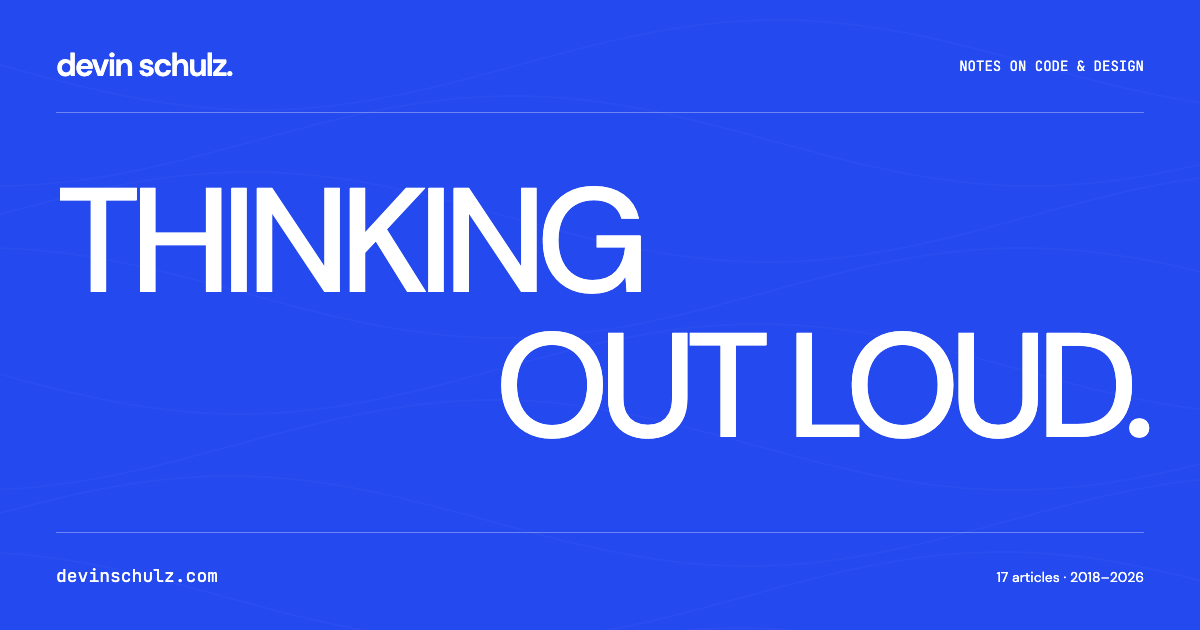
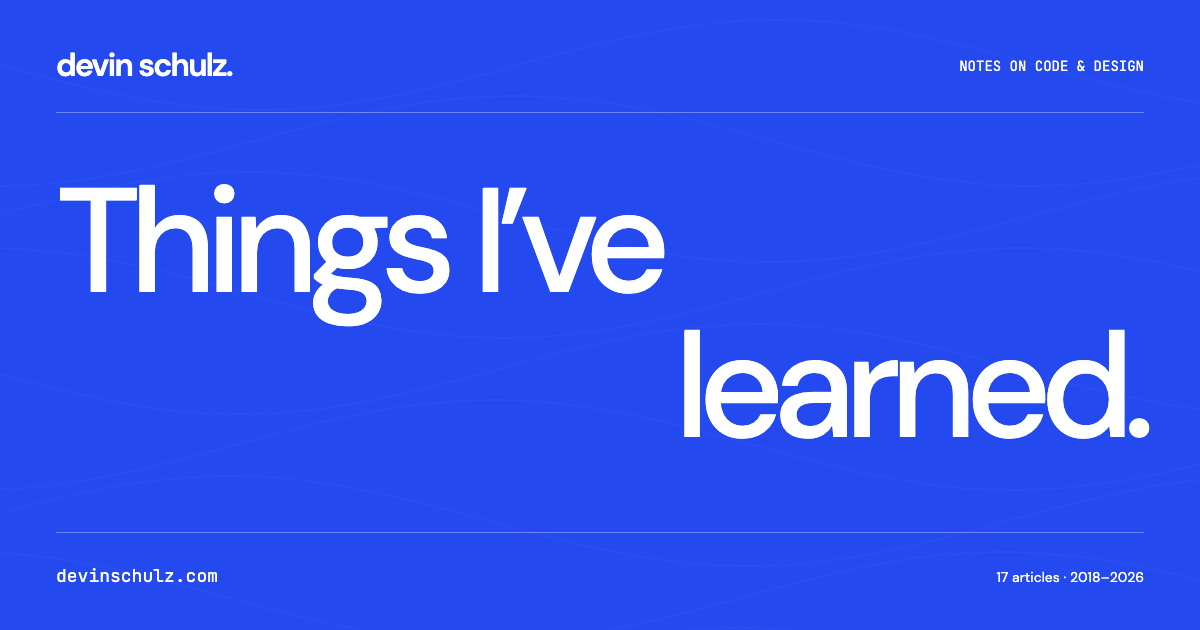
Rename writing section to Things I've learned

Changed region(s): [[0.4008, 0.5127, 0.9558, 0.6937], [0.1233, 0.2714, 0.555, 0.5429]]

diff --git a/layouts/index.html b/layouts/index.html
@@ -19,5 +19,5 @@
   <p class="intro-statement col-start-2 my-10 text-[clamp(34px,7.8vw,60px)] leading-[1.06] font-normal tracking-[-0.065em] desktop:my-0 desktop:text-[clamp(40px,4.4vw,72px)]">Designing and building<br>for the web <img class="inline-work mx-[0.1em] inline-block h-[0.83em] w-[1.7em] rounded-[0.12em] object-cover align-[-0.04em]" src="{{ $inline.RelPermalink }}" width="280" height="150" alt="" loading="lazy"> <span class="text-muted">since 2012.</span></p>
   <div class="intro-details col-start-2"><div class="max-w-145 text-base leading-[1.55] tracking-[-0.02em] desktop:text-lg"><p>I came to frontend engineering through design. I still enjoy figuring out how an interface should behave as much as writing the code that makes it work.</p><p class="mt-5 text-muted">At Cape, that meant designing and building an AI workspace. At InVision, it meant working on the tools designers and developers use together. I’ve also built my own apps for iPhone, iPad, and Mac, where every decision, from the first form to the end of support, was mine to make.</p><p class="mt-5 text-muted">The work I tend to enjoy most is in the details: keeping a conversation readable as it grows, making a failed request recoverable, or getting a small interaction to behave the way you expect.</p><a class="index-text-link mt-6 inline-flex min-h-11 items-center justify-between gap-10 border-b border-line-strong text-[13px] hover:border-current" href="{{ relref . "/blog/the-hardest-part-of-frontend-development-isnt-writing-code" }}">How I approach frontend work <span class="text-[22px]" aria-hidden="true">↗&#xFE0E;</span></a></div></div>
 </section>
-<section id="archive" class="notes-section mx-auto w-[calc(100%-40px)] max-w-400 border-t border-line-strong pt-6 pb-20 desktop:w-[calc(100%-64px)] desktop:pt-9 desktop:pb-35 min-[1100px]:w-[calc(100%-96px)]" aria-labelledby="writing-title"><div class="section-kicker flex items-baseline gap-4 self-start text-[11px] desktop:gap-7 desktop:text-xs"><span class="font-mono text-[10px]">(03)</span><h2 id="writing-title">Notes on code &amp; design</h2><span class="ml-auto">{{ partial "writing-years.html" $posts }}</span></div><div class="notes-heading my-10 desktop:my-15 desktop:flex desktop:items-end desktop:justify-between"><p class="text-[20vw] leading-[0.95] tracking-[-0.07em] desktop:text-[clamp(64px,9.4vw,150px)]">Thinking<br>out loud.</p><a class="index-text-link mt-7 inline-flex min-h-11 items-center justify-between gap-10 border-b border-line-strong text-[13px] hover:border-current desktop:mt-6" href="{{ "blog/" | relURL }}">All {{ len $posts }} articles <span class="text-[22px]" aria-hidden="true">↗&#xFE0E;</span></a></div><div class="notes-list" data-post-list>{{ range first 4 $posts.ByDate.Reverse }}<a class="note-entry group grid grid-cols-[34px_1fr_20px] items-baseline gap-3 border-t border-line py-6 last:border-b desktop:grid-cols-[1fr_4fr_44px] desktop:gap-6 desktop:py-8" href="{{ .RelPermalink }}"><time class="font-mono text-[9px] text-muted desktop:text-[11px]" datetime="{{ .Date.Format "2006-01-02" }}">{{ .Date.Format "2006" }}</time><h3 class="text-[22px] leading-[1.2] font-normal tracking-[-0.04em] group-hover:underline group-hover:decoration-1 group-hover:underline-offset-[5px] desktop:text-[clamp(22px,2.8vw,42px)]">{{ .Title }}</h3><span class="text-right text-xl desktop:text-2xl" aria-hidden="true">↗&#xFE0E;</span></a>{{ end }}</div></section>
+<section id="archive" class="notes-section mx-auto w-[calc(100%-40px)] max-w-400 border-t border-line-strong pt-6 pb-20 desktop:w-[calc(100%-64px)] desktop:pt-9 desktop:pb-35 min-[1100px]:w-[calc(100%-96px)]" aria-labelledby="writing-title"><div class="section-kicker flex items-baseline gap-4 self-start text-[11px] desktop:gap-7 desktop:text-xs"><span class="font-mono text-[10px]">(03)</span><h2 id="writing-title">Notes on code &amp; design</h2><span class="ml-auto">{{ partial "writing-years.html" $posts }}</span></div><div class="notes-heading my-10 desktop:my-15 desktop:flex desktop:items-end desktop:justify-between"><p class="text-[20vw] leading-[0.95] tracking-[-0.07em] desktop:text-[clamp(64px,9.4vw,150px)]">Things I’ve<br>learned.</p><a class="index-text-link mt-7 inline-flex min-h-11 items-center justify-between gap-10 border-b border-line-strong text-[13px] hover:border-current desktop:mt-6" href="{{ "blog/" | relURL }}">All {{ len $posts }} articles <span class="text-[22px]" aria-hidden="true">↗&#xFE0E;</span></a></div><div class="notes-list" data-post-list>{{ range first 4 $posts.ByDate.Reverse }}<a class="note-entry group grid grid-cols-[34px_1fr_20px] items-baseline gap-3 border-t border-line py-6 last:border-b desktop:grid-cols-[1fr_4fr_44px] desktop:gap-6 desktop:py-8" href="{{ .RelPermalink }}"><time class="font-mono text-[9px] text-muted desktop:text-[11px]" datetime="{{ .Date.Format "2006-01-02" }}">{{ .Date.Format "2006" }}</time><h3 class="text-[22px] leading-[1.2] font-normal tracking-[-0.04em] group-hover:underline group-hover:decoration-1 group-hover:underline-offset-[5px] desktop:text-[clamp(22px,2.8vw,42px)]">{{ .Title }}</h3><span class="text-right text-xl desktop:text-2xl" aria-hidden="true">↗&#xFE0E;</span></a>{{ end }}</div></section>
 {{ end }}

diff --git a/layouts/blog/list.html b/layouts/blog/list.html
@@ -6,7 +6,7 @@
         <p>Notes on code &amp; design</p>
         <p class="font-mono text-[10px] desktop:text-xs">{{ partial "writing-years.html" $posts }}</p>
       </div>
-      <h1 id="archive-title" class="archive-title pointer-events-none relative z-2 mt-12 select-none [&.is-spatial]:text-transparent forced-colors:[&.is-spatial]:text-[CanvasText] mb-10 text-[16cqw] leading-[0.93] font-medium tracking-[-0.075em] desktop:mt-14 desktop:mb-12 desktop:flex desktop:flex-wrap desktop:justify-between desktop:gap-6 desktop:text-[clamp(64px,9cqw,168px)]"><span class="block">THINKING</span><span class="block text-right">OUT LOUD.</span></h1>
+      <h1 id="archive-title" class="archive-title pointer-events-none relative z-2 mt-12 select-none [&.is-spatial]:text-transparent forced-colors:[&.is-spatial]:text-[CanvasText] mb-10 text-[16cqw] leading-[0.93] font-medium tracking-[-0.075em] desktop:mt-14 desktop:mb-12 desktop:flex desktop:flex-wrap desktop:justify-between desktop:gap-6 desktop:text-[clamp(64px,9cqw,168px)]"><span class="block">Things I’ve</span><span class="block text-right">learned.</span></h1>
       <div class="relative z-3 flex flex-col justify-between gap-6 border-t border-white/33 pt-6 desktop:flex-row desktop:items-end desktop:pt-7">
         <p class="max-w-[33ch] text-sm leading-relaxed desktop:text-lg">Notes on code, design, and the things I learned along the way.</p>
         <p class="max-w-[35ch] text-xs leading-relaxed desktop:text-right">{{ len $posts }} articles, {{ partial "writing-years.html" $posts }}.<br>Older posts keep their original publication dates.</p>

diff --git a/layouts/_default/single.html b/layouts/_default/single.html
@@ -4,7 +4,7 @@
     <header class="article-hero relative isolate mx-2 overflow-clip rounded-[18px] bg-[#2449ef] px-5 pt-5 pb-6 text-white desktop:mx-4 desktop:rounded-3xl desktop:px-8 desktop:pt-6 desktop:pb-8 min-[1100px]:px-10 [&_:focus-visible]:outline-white [&_:focus-visible]:ring-[#2449ef] forced-colors:border forced-colors:border-[CanvasText]">
       <div class="relative z-3 flex flex-wrap items-center justify-between gap-x-6 gap-y-2 border-b border-white/30 pb-3 text-xs desktop:pb-5 desktop:text-[13px]">
         <a class="inline-flex min-h-11 items-center gap-3 hover:underline hover:underline-offset-4" href="{{ "blog/" | relURL }}"><span aria-hidden="true">←&#xFE0E;</span> All writing</a>
-        <span>Thinking out loud.</span>
+        <span>Things I’ve learned.</span>
       </div>
       <h1 id="article-title" class="article-title pointer-events-none relative z-2 [&.is-spatial]:text-transparent forced-colors:[&.is-spatial]:text-[CanvasText] mt-10 max-w-[22ch] text-[clamp(34px,9vw,64px)] leading-[1.03] font-medium tracking-[-0.06em] desktop:mt-14 desktop:text-[clamp(54px,6.9vw,112px)] desktop:leading-[1.02] min-[1600px]:max-w-[25ch]">{{ .Title }}</h1>
       {{ with .Description }}<p class="relative z-3 mt-6 max-w-[56ch] text-base leading-relaxed text-white/85 desktop:mt-8 desktop:text-[21px]">{{ . }}</p>{{ end }}

diff --git a/README.md b/README.md
@@ -60,6 +60,6 @@ Articles live in `content/blog/`; case studies live in `content/work/`. Preserve
 
 Case-study images are optimized through `layouts/partials/case-study-image.html`. The article image hook preserves accessible alternative text and presents archived GIFs as single-frame PNG posters until visitors choose to play the original GIF. WebP conversion preserves animation and is unsuitable for these posters. The build check rejects animated posters; Stop, reduced motion, hidden tabs, and navigation restore the PNG.
 
-Run `npm run build:social` to render 1200 × 630 share cards with the site’s DM Sans typography, ultramarine palette, solid resting letterforms, and real project screenshots. Static cards reflect the readable state of the interactive headers; pointer-driven particle breakup remains on the website. Every article gets a dedicated card using its full title, original publication year, and topics from the content frontmatter; the archive keeps its “Thinking out loud” card. Re-run this command after changing article titles or adding posts. Hugo converts these exports to JPEG and publishes content-hashed URLs for Open Graph and Twitter metadata. Metadata, structured data, and sharing images are generated by `layouts/partials/seo.html` and `layouts/partials/social-image.html`. RSS includes all blog posts, with the newest writing first, and excludes case studies.
+Run `npm run build:social` to render 1200 × 630 share cards with the site’s DM Sans typography, ultramarine palette, solid resting letterforms, and real project screenshots. Static cards reflect the readable state of the interactive headers; pointer-driven particle breakup remains on the website. Every article gets a dedicated card using its full title, original publication year, and topics from the content frontmatter; the archive keeps its “Things I’ve learned” card. Re-run this command after changing article titles or adding posts. Hugo converts these exports to JPEG and publishes content-hashed URLs for Open Graph and Twitter metadata. Metadata, structured data, and sharing images are generated by `layouts/partials/seo.html` and `layouts/partials/social-image.html`. RSS includes all blog posts, with the newest writing first, and excludes case studies.
 
 Machine-readable content is generated by Hugo: `/llms.txt`, `/index.md`, `/blog/index.md`, all article Markdown pages, and all three case-study Markdown pages. Case studies include their full prose, captions, original image links, and attribution. Archived articles retain their original dates and code examples, with an archive notice. `npm run check` verifies every exported Markdown page and its local links.

diff --git a/layouts/index.md.md b/layouts/index.md.md
@@ -33,7 +33,7 @@ The work I tend to enjoy most is in the details: keeping a conversation readable
 
 [How I approach frontend work]({{ (site.GetPage "/blog/the-hardest-part-of-frontend-development-isnt-writing-code").Permalink }})
 
-## Thinking out loud.
+## Things I’ve learned.
 
 Notes on code and design, {{ partial "writing-years.html" $blog }}.
 

diff --git a/layouts/blog/list.md.md b/layouts/blog/list.md.md
@@ -1,4 +1,4 @@
-# Thinking out loud.
+# Things I’ve learned.
 
 Notes on code and design.
 
